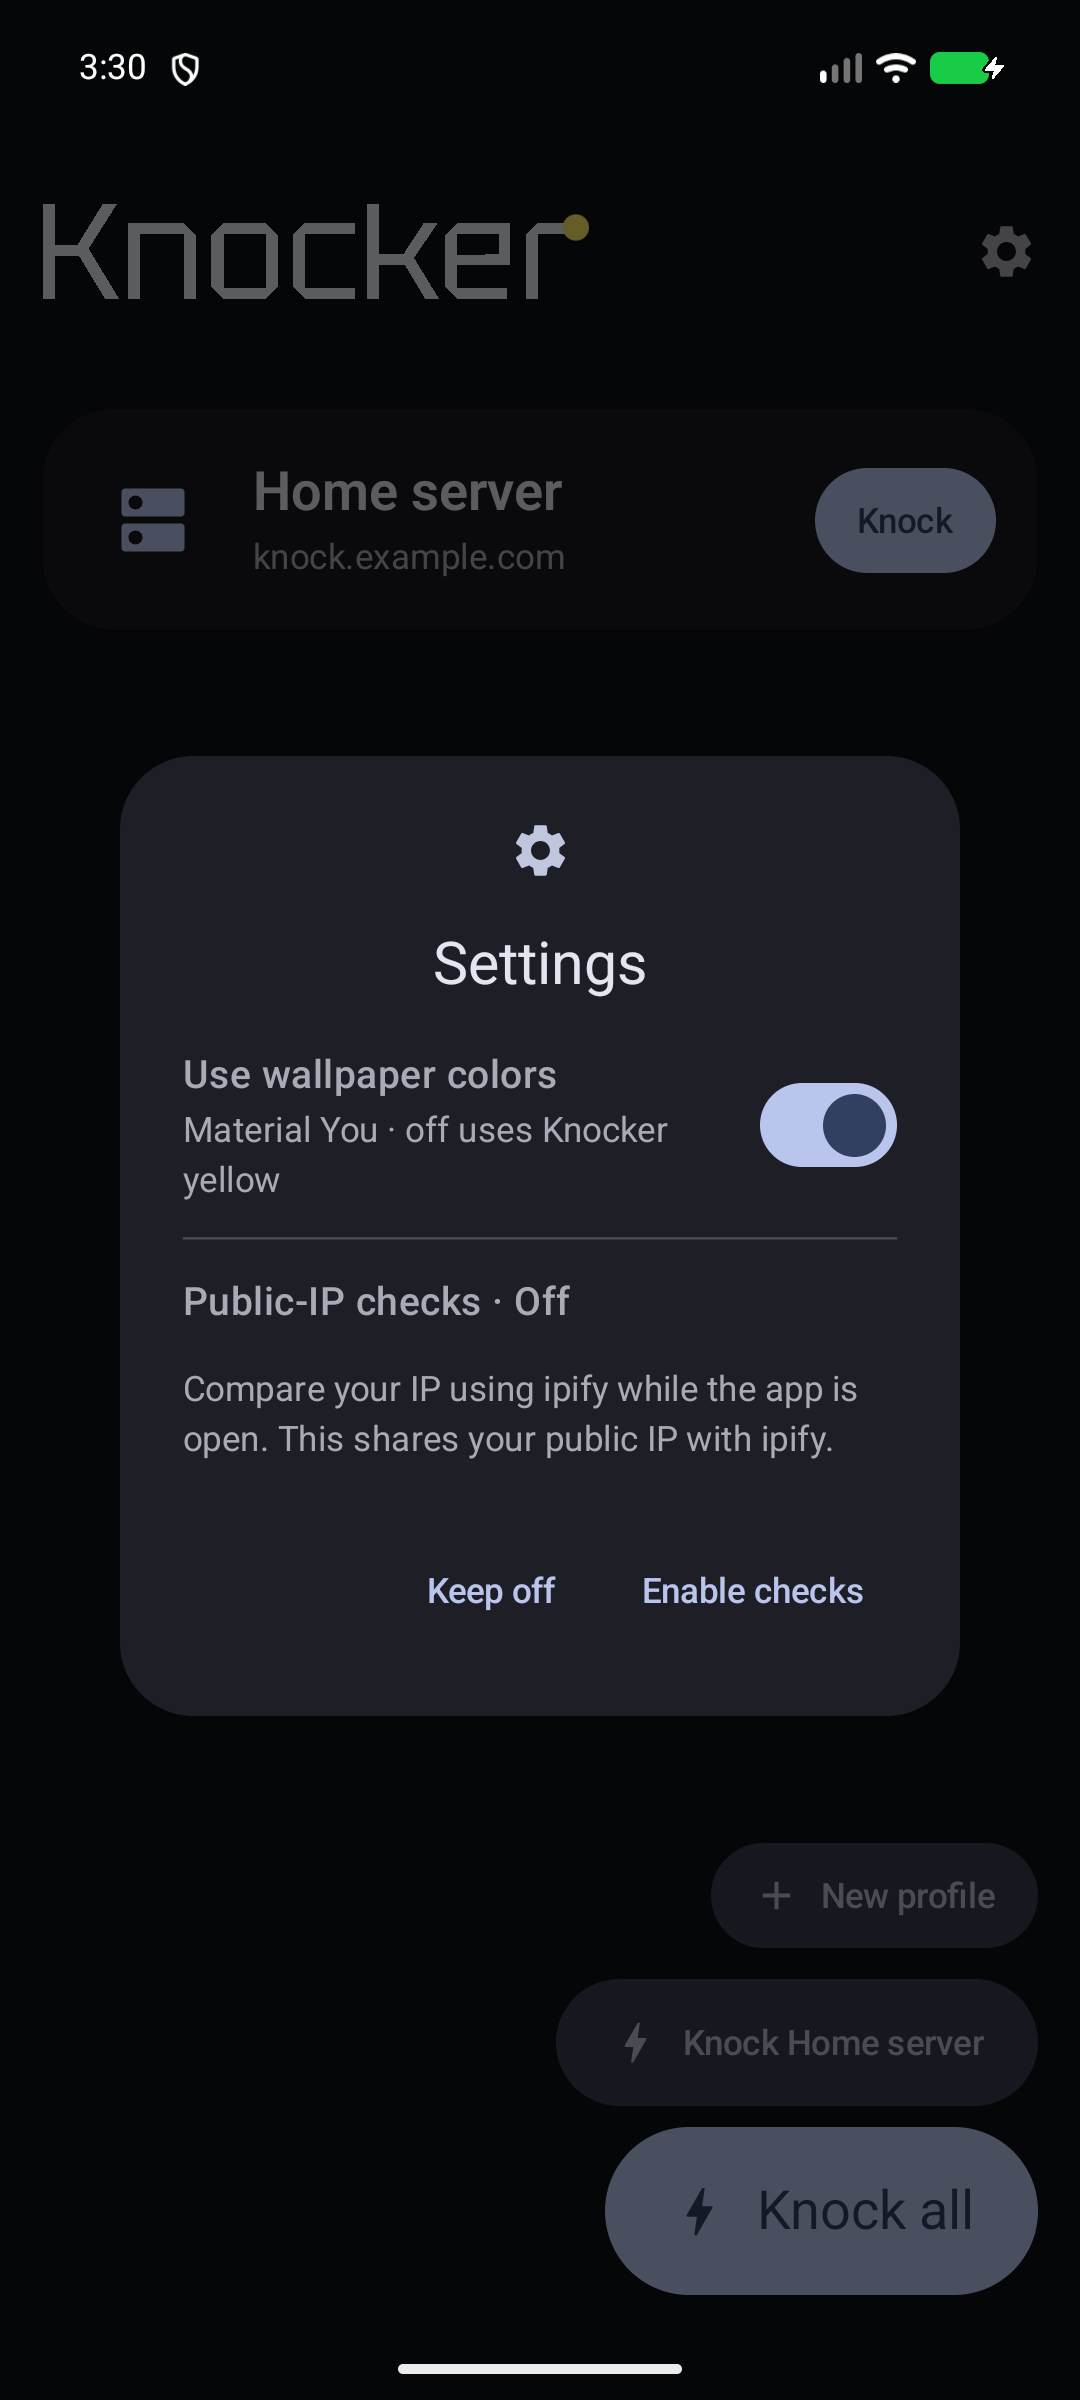
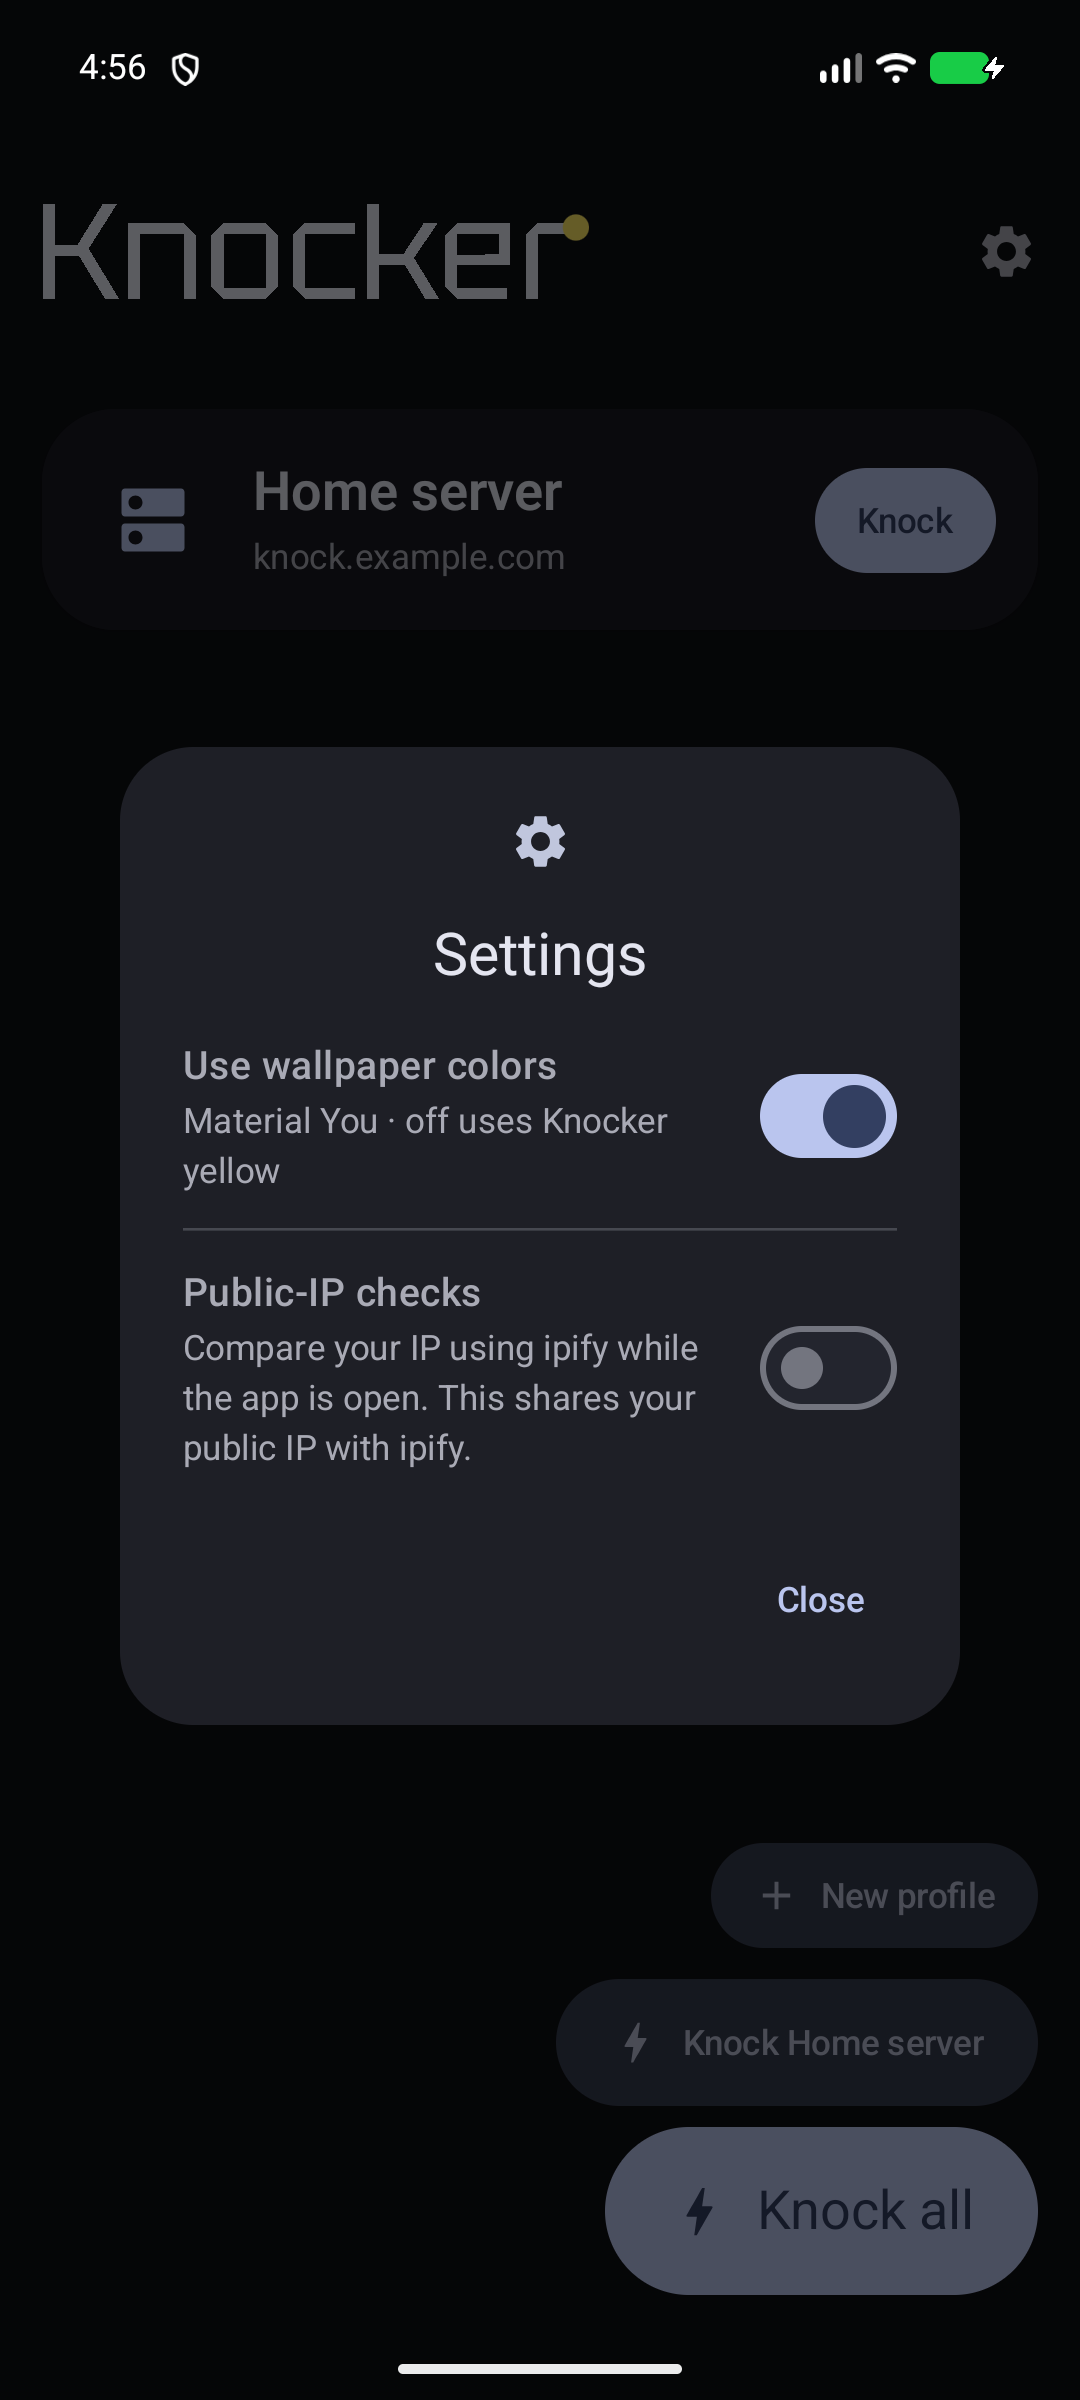
Use a switch for public IP checks in Settings

diff --git a/artifacts/knocker/modules/knocker-native/android/src/androidTest/java/dev/faris/knockernative/NativeAppTest.kt b/artifacts/knocker/modules/knocker-native/android/src/androidTest/java/dev/faris/knockernative/NativeAppTest.kt
@@ -171,7 +171,35 @@ class NativeAppTest {
       .assert(hasAnyAncestor(hasContentDescription("Edit Home server")).not())
       .assert(hasAnyAncestor(hasContentDescription("Profile Home server")))
     compose.onNodeWithContentDescription("Settings").performClick()
-    compose.onNodeWithText("Public-IP checks · Off").assertExists()
+    compose.onNodeWithText("Public-IP checks").assertIsOff()
+  }
+
+  @Test fun publicIpSwitchUsesBridgeStateAndKeepsSettingsOpen() {
+    val state = mutableStateOf(loaded())
+    val actions = mutableListOf<Pair<String, Map<String, Any?>>>()
+    compose.setContent { KnockerTheme { NativeApp(state.value, { type, payload -> actions.add(type to payload) }, {}) } }
+    compose.onNodeWithContentDescription("Settings").performClick()
+    compose.onNodeWithText("Public-IP checks").assertIsOff().performClick()
+    compose.runOnIdle {
+      assertEquals("toggleIp", actions.last().first)
+      assertEquals(true, actions.last().second["enabled"])
+      val json = loaded().json
+      json.getJSONObject("network").put("checksEnabled", true)
+      state.value = NativeUiState(json)
+    }
+    compose.onNodeWithText("Public-IP checks").assertIsOn()
+    compose.onNodeWithText("Check now").assertExists()
+    compose.onNodeWithText("Close").assertExists()
+    compose.onNodeWithText("Public-IP checks").performClick()
+    compose.runOnIdle {
+      assertEquals("toggleIp", actions.last().first)
+      assertEquals(false, actions.last().second["enabled"])
+      state.value = loaded()
+    }
+    compose.onNodeWithText("Public-IP checks").assertIsOff()
+    compose.onNodeWithText("Check now").assertDoesNotExist()
+    compose.onNodeWithText("Close").performClick()
+    compose.onNodeWithContentDescription("Knocker").assertExists()
   }
 
   @Test fun successfulFeedbackAutoDismissesEvenIfAnOldSnapshotMarksItPersistent() {

diff --git a/artifacts/knocker/modules/knocker-native/android/src/main/java/dev/faris/knockernative/KnockerAppView.kt b/artifacts/knocker/modules/knocker-native/android/src/main/java/dev/faris/knockernative/KnockerAppView.kt
@@ -217,16 +217,19 @@ internal fun NativeApp(state: NativeUiState, emit: (String, Map<String, Any?>) -
           }
           HorizontalDivider()
         }
-        Text("Public-IP checks · ${if (state.network.optBoolean("checksEnabled")) "On" else "Off"}", style = MaterialTheme.typography.titleMedium)
-        Text("Compare your IP using ipify while the app is open. This shares your public IP with ipify.")
+        Row(Modifier.fillMaxWidth().toggleable(value = state.network.optBoolean("checksEnabled"), role = Role.Switch,
+          onValueChange = { dispatch("toggleIp", mapOf("enabled" to it)) }),
+          verticalAlignment = Alignment.CenterVertically, horizontalArrangement = Arrangement.spacedBy(12.dp)) {
+          Column(Modifier.weight(1f)) {
+            Text("Public-IP checks", style = MaterialTheme.typography.titleMedium)
+            Text("Compare your IP using ipify while the app is open. This shares your public IP with ipify.",
+              style = MaterialTheme.typography.bodyMedium)
+          }
+          Switch(checked = state.network.optBoolean("checksEnabled"), onCheckedChange = null)
+        }
         if (state.network.optBoolean("checksEnabled")) TextButton(onClick = { preferences = false; dispatch("refreshIp") }) { Text("Check now") }
       }
     },
-    confirmButton = {
-      TextButton(onClick = { preferences = false; dispatch("toggleIp", mapOf("enabled" to !state.network.optBoolean("checksEnabled"))) }) {
-        Text(if (state.network.optBoolean("checksEnabled")) "Turn off" else "Enable checks")
-      }
-    },
-    dismissButton = { TextButton(onClick = { preferences = false }) { Text(if (state.network.optBoolean("checksEnabled")) "Close" else "Keep off") } }
+    confirmButton = { TextButton(onClick = { preferences = false }) { Text("Close") } }
   )
 }

diff --git a/docs/material3/README.md b/docs/material3/README.md
@@ -28,7 +28,7 @@ After the first visible frame, one cached Android startup batch begins independe
 
 Successful in-flight grants survive rename, pin, slot, TTL and renewal edits. Endpoint, key or normalized IP-target changes invalidate them. Native storage uses the latest renewal settings and preserves newer grants. Both JS merge paths preserve later attempt failures while recovering earlier valid permissions. Snapshot writes remain serialized. The optimized build retains the WorkManager/Room reflection keep rules.
 
-Local connection identity detects Wi-Fi/cellular/default-network changes without SSID, location or a public-IP service. Public-IP comparison is opt-in and off by default. The native dialog names ipify and explains disclosure before enabling it. Existing checks remain same-family/CIDR aware, foreground-only, cancellable, bounded to four seconds and independent of knocking. Turning them off cancels requests and clears comparison data.
+Local connection identity detects Wi-Fi/cellular/default-network changes without SSID, location or a public-IP service. Public-IP comparison is opt-in and off by default. The Settings dialog exposes a Public-IP checks switch, names ipify and explains disclosure alongside it. Toggling uses the existing saved network preference and keeps Settings open; Check now appears while enabled. Existing checks remain same-family/CIDR aware, foreground-only, cancellable, bounded to four seconds and independent of knocking. Turning them off cancels requests and clears comparison data.
 
 ## State ownership and failure guarantees
 
@@ -68,9 +68,9 @@ Instrumentation tests explicitly use Espresso 3.8.0-alpha03: Compose's older tra
 
 The default-yellow change passed workspace type checking, all 54 JavaScript tests, all 15 native JVM tests and all 13 Compose/navigation tests on the Android 16 emulator. The new UI test verifies default-off behavior, immediate wallpaper-color selection, preference restoration after theme recreation and returning to the branded palette.
 
-After revising light mode to use exact-yellow filled actions and neutral surfaces, all 13 Compose/navigation tests and the release build passed again.
+After revising light mode to use exact-yellow filled actions and neutral surfaces, all 13 Compose/navigation tests and the release build passed again. The subsequent Public-IP switch change passed all 14 Compose/navigation tests and the release build, including on/off command payloads, bridge state updates and keeping Settings open. Installed-app checks confirmed both switch states and the conditional Check now action.
 
-The optimized release APK also passed installed-app checks for light/dark appearance, immediate palette switching and both on/off choices surviving relaunch. Captures: `yellow-home-dark.png`, `yellow-home-light.png`, `yellow-settings-dark.png`, `yellow-settings-light.png` and `wallpaper-settings-dark.png` in `screenshots/`. The profile uses demonstration data.
+The optimized release APK also passed installed-app checks for light/dark appearance, immediate palette switching and both on/off choices surviving relaunch. Captures: `yellow-home-dark.png`, `yellow-home-light.png`, `yellow-settings-dark.png`, `yellow-settings-light.png` `wallpaper-settings-dark.png` and `public-ip-settings-light.png` in `screenshots/`. The profile uses demonstration data.
 
 Android lint was also run. It reported nine errors in unchanged network, notification and tile code (`KnockerNetwork.kt`, `KnockerTileNotifier.kt`, `KnockerTileService.kt`), concerning permission declarations/checks and the deprecated tile-launch overload, plus 16 warnings. The appearance changes have no lint errors. These existing findings remain outside the appearance change.
 
